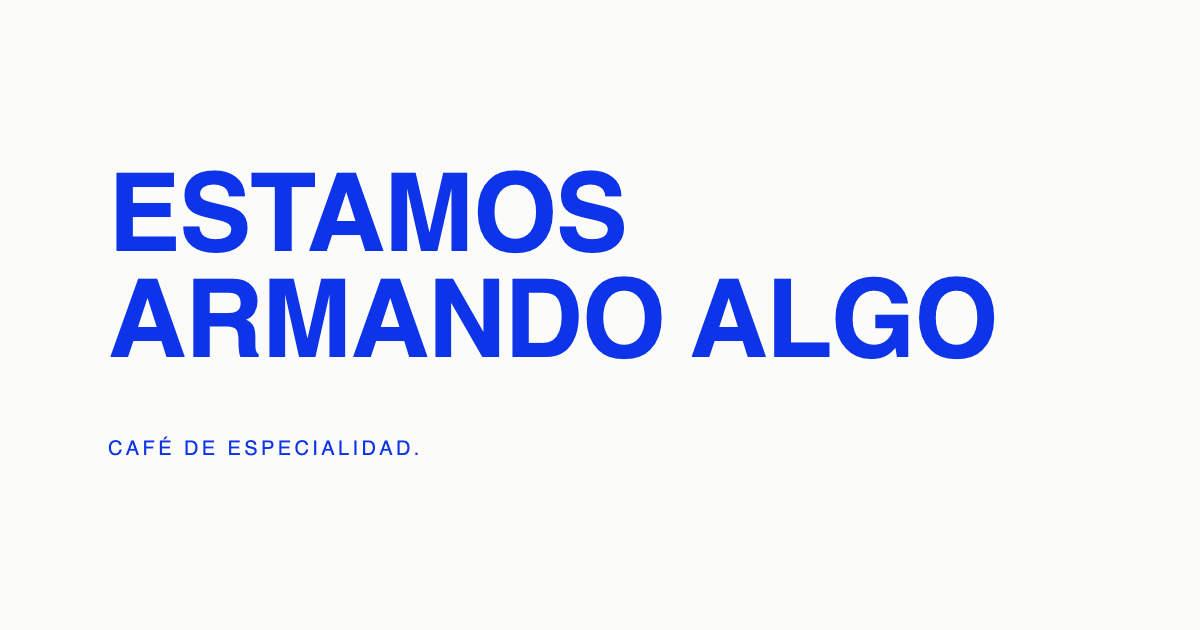
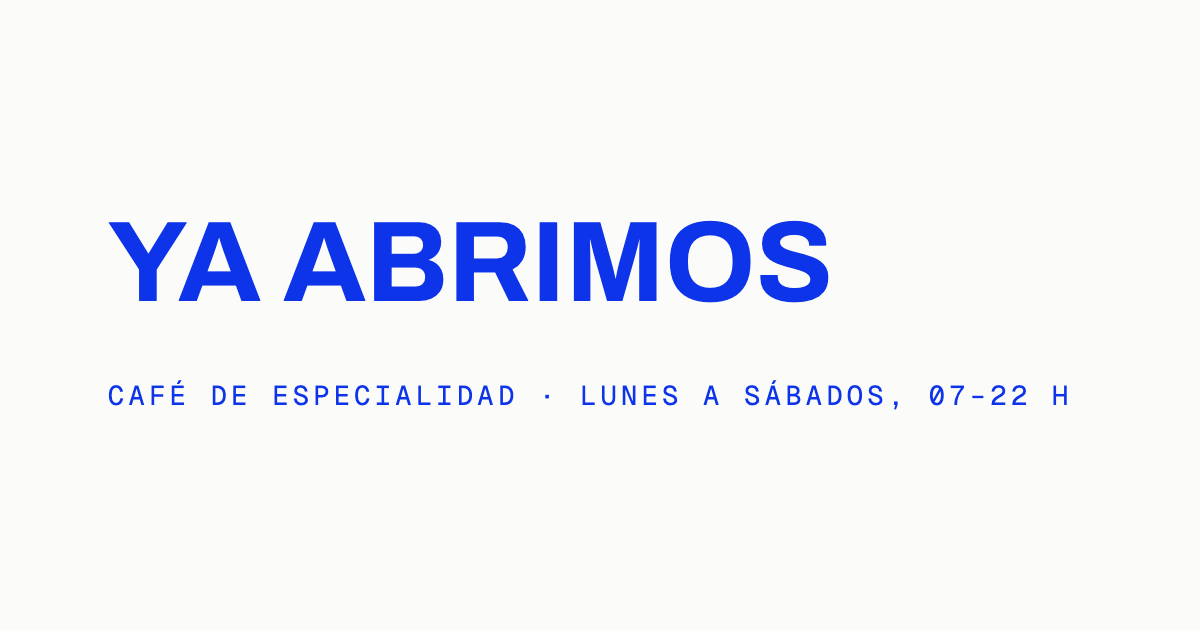
la landing dice que abrimos y la lista de espera se retira
El local de Salta abrió: titular "Ya abrimos", horario, "Cómo llegar" a
Google Maps y Jujuy como segunda acción. La lista de espera ya cumplió su
promesa: fuera el formulario, waitlist.join, la acción de Turnstile y su
tope. La tabla waitlist se conserva con sus emails. JSON-LD del local y
og.png nuevo. ADR-0010.

Generated with [Devin](https://devin.ai)

diff --git a/index.html b/index.html
@@ -6,7 +6,7 @@
     <title>Sorbo — Laboratorio de café</title>
     <meta
       name="description"
-      content="Estamos armando algo. Café de especialidad en Salta. Próximamente. Dean Funes 244."
+      content="Ya abrimos. Café de especialidad en Salta. Lunes a sábados, 07–22 h. Dean Funes 244."
     />
     <meta name="theme-color" content="#FBFBFA" />
     <link rel="icon" type="image/svg+xml" href="/favicon.svg" />
@@ -15,7 +15,7 @@
     <meta property="og:title" content="Sorbo — Laboratorio de café" />
     <meta
       property="og:description"
-      content="Estamos armando algo. Café de especialidad en Salta. Próximamente."
+      content="Ya abrimos. Café de especialidad en Salta. Lunes a sábados, 07–22 h."
     />
     <meta property="og:image" content="https://sorbolabs.com/og.png" />
     <meta property="og:image:width" content="1200" />
@@ -27,6 +27,41 @@
       href="https://fonts.googleapis.com/css2?family=Archivo:wght@400;500;600;700&family=Geist+Mono:wght@400;500&display=swap"
       rel="stylesheet"
     />
+    <script type="application/ld+json">
+      {
+        "@context": "https://schema.org",
+        "@type": "CafeOrCoffeeShop",
+        "name": "Sorbo",
+        "description": "Laboratorio de café de especialidad.",
+        "url": "https://sorbolabs.com/",
+        "image": "https://sorbolabs.com/og.png",
+        "telephone": "+5493875535225",
+        "address": {
+          "@type": "PostalAddress",
+          "streetAddress": "Dean Funes 244",
+          "addressLocality": "Salta",
+          "addressRegion": "Salta",
+          "addressCountry": "AR"
+        },
+        "hasMap": "https://maps.app.goo.gl/1G2C3LUB1BwF9pfP9",
+        "openingHoursSpecification": [
+          {
+            "@type": "OpeningHoursSpecification",
+            "dayOfWeek": [
+              "Monday",
+              "Tuesday",
+              "Wednesday",
+              "Thursday",
+              "Friday",
+              "Saturday"
+            ],
+            "opens": "07:00",
+            "closes": "22:00"
+          }
+        ],
+        "sameAs": ["https://instagram.com/sorbolabs"]
+      }
+    </script>
   </head>
   <body>
     <div id="root"></div>

diff --git a/convex/campaigns.test.ts b/convex/campaigns.test.ts
@@ -150,9 +150,13 @@ test("turnstile: sin token válido, de la acción correcta, no se crea nada", as
       "VERIFICACION_FALLIDA",
     );
   }
-  await expect(t.action(api.waitlist.join, { turnstile: "contribuir_mp", email: "a@x.com" })).rejects.toThrow(
-    "VERIFICACION_FALLIDA",
-  );
+  await expect(
+    t.action(api.contributions.contribuir, {
+      turnstile: "contribuir_mp",
+      slug: "jujuy",
+      via: { rail: "crypto", chainId: "base" },
+    }),
+  ).rejects.toThrow("VERIFICACION_FALLIDA");
   expect(mp.orders.size).toBe(0);
   const filas = await t.run((ctx) => ctx.db.query("contribuciones").collect());
   expect(filas).toHaveLength(0);
@@ -211,17 +215,6 @@ test("turnstile: sin hostnames configurados, falla cerrado", async () => {
   } finally {
     process.env.TURNSTILE_HOSTNAMES = antes;
   }
-});
-
-test("lista de espera: un email inválido no gasta cupo", async () => {
-  const t = nuevoTest();
-  setPortsForTesting(puertos(null));
-  for (let i = 0; i < 30; i++) {
-    await expect(t.action(api.waitlist.join, { turnstile: "lista_espera", email: "no-es-email" })).rejects.toThrow(
-      "EMAIL_INVALID",
-    );
-  }
-  await t.action(api.waitlist.join, { turnstile: "lista_espera", email: "ok@x.com" });
 });
 
 test("turnstile: sin configuración, falla cerrado", async () => {
@@ -1394,13 +1387,6 @@ test("recompensa: un aviso cripto posterior al pago no da cafés", async () => {
   // El aporte igual cuenta para la meta.
   const p = await t.query(api.campaigns.progreso, { slug: "jujuy" });
   expect(p!.recaudadoNetoCentavos).toBe(6_000_000);
-});
-
-test("límites: pasado el tope global, la lista de espera frena", async () => {
-  const t = nuevoTest();
-  setPortsForTesting(puertos(null));
-  for (let i = 0; i < 20; i++) await t.action(api.waitlist.join, { turnstile: "lista_espera", email: `w${i}@x.com` });
-  await expect(t.action(api.waitlist.join, { turnstile: "lista_espera", email: "w99@x.com" })).rejects.toThrow("DEMASIADO_TRAFICO");
 });
 
 test("staff: con PIN de 5, 5 fallidos en el día traban los ingresos nuevos hasta desbloquear", async () => {

diff --git a/src/components/landing.tsx b/src/components/landing.tsx
@@ -1,36 +1,43 @@
 import { Link } from "@tanstack/react-router";
-import { WaitlistForm } from "./waitlist-form";
-import { DataBlock } from "./data-block";
+import { DataBlock, MAPS_URL } from "./data-block";
 import { Pieza } from "./pieza";
 
 export function Landing() {
   return (
     <Pieza
-      lado={
-        <Link
-          to="/jujuy"
-          className="inline-block bg-azul px-7 py-3 text-xs font-semibold uppercase tracking-[0.17em] text-nieve hover:bg-noche"
-        >
-          Salta → Jujuy
-        </Link>
-      }
+      lado="Salta · AR"
       abajo={<DataBlock />}
       doe={false}
     >
       <section className="flex flex-1 flex-col justify-center py-8">
         <h1 className="text-[clamp(2rem,9.5vw,8rem)] font-bold uppercase leading-[0.98]">
-          Estamos
+          Ya
           <br />
-          armando&nbsp;algo
+          abrimos
         </h1>
         <p className="mt-8 text-xs uppercase leading-loose tracking-[0.17em] sm:text-base">
           Café de especialidad.
           <br />
-          Próximamente.
+          Lunes a sábados, 07–22 h.
         </p>
       </section>
 
-      <WaitlistForm />
+      <div className="flex flex-col items-start gap-5 sm:flex-row sm:items-center sm:gap-8">
+        <a
+          href={MAPS_URL}
+          target="_blank"
+          rel="noreferrer"
+          className="bg-azul px-7 py-3 text-xs font-semibold uppercase tracking-[0.17em] text-nieve hover:bg-noche"
+        >
+          Cómo llegar
+        </a>
+        <Link
+          to="/jujuy"
+          className="text-xs font-semibold uppercase tracking-[0.17em] text-azul underline-offset-4 hover:underline"
+        >
+          El próximo es Jujuy →
+        </Link>
+      </div>
     </Pieza>
   );
 }

diff --git a/src/components/data-block.tsx b/src/components/data-block.tsx
@@ -1,14 +1,10 @@
-import { Link } from "@tanstack/react-router";
+export const MAPS_URL = "https://maps.app.goo.gl/1G2C3LUB1BwF9pfP9";
 
 const rows = [
   {
-    value: "El próximo Sorbo",
-    href: "/jujuy",
-  },
-  {
     label: "Dirección",
     value: "Dean Funes 244, Salta",
-    href: "https://www.google.com/maps/search/?api=1&query=Dean+Funes+244+Salta",
+    href: MAPS_URL,
   },
   {
     label: "Instagram",
@@ -27,15 +23,11 @@ export function DataBlock() {
     <ul className="flex flex-wrap items-baseline justify-between gap-x-8 gap-y-3 font-mono text-[11px] uppercase tracking-[0.16em] text-azul/80 sm:text-xs">
       {rows.map((row) => (
         <li key={row.value} className="flex items-baseline gap-3">
-          {"label" in row && <span>{row.label}</span>}
+          <span>{row.label}</span>
           <span className="text-azul">
-            {row.href.startsWith("/") ? (
-              <Link to={row.href}>{row.value}</Link>
-            ) : (
-              <a href={row.href} target="_blank" rel="noreferrer">
-                {row.value}
-              </a>
-            )}
+            <a href={row.href} target="_blank" rel="noreferrer">
+              {row.value}
+            </a>
           </span>
         </li>
       ))}

diff --git a/convex/_lib/turnstile.test.ts b/convex/_lib/turnstile.test.ts
@@ -7,7 +7,7 @@ test("vale solo con éxito, la acción del formulario y un dominio nuestro", () 
   const ok = { success: true, action: "contribuir_mp", hostname: "sorbolabs.com" };
   expect(tokenValido(ok, "contribuir_mp", nuestros, false)).toBe(true);
   expect(tokenValido({ ...ok, success: false }, "contribuir_mp", nuestros, false)).toBe(false);
-  expect(tokenValido(ok, "lista_espera", nuestros, false)).toBe(false);
+  expect(tokenValido(ok, "aviso_cripto", nuestros, false)).toBe(false);
   expect(tokenValido({ ...ok, hostname: "otro.com" }, "contribuir_mp", nuestros, false)).toBe(false);
   expect(tokenValido({ success: true, action: "contribuir_mp" }, "contribuir_mp", nuestros, false)).toBe(false);
 });

diff --git a/convex/_lib/turnstile.ts b/convex/_lib/turnstile.ts
@@ -1,7 +1,7 @@
 import type { TurnstileResultado } from "./ports";
 
 // Acciones de Turnstile: una por formulario protegido, igual que en el front.
-export type AccionTurnstile = "contribuir_mp" | "aviso_cripto" | "lista_espera";
+export type AccionTurnstile = "contribuir_mp" | "aviso_cripto";
 
 // El token vale si Cloudflare dice que sí, para esta acción y desde un dominio
 // nuestro. Las claves de prueba de Cloudflare (sin acción, hostname

diff --git a/convex/limites.ts b/convex/limites.ts
@@ -14,7 +14,6 @@ const config = {
   verificarTx: { kind: "token bucket", rate: 20, period: MINUTE, capacity: 10 },
   // Vuelta de MP: un GET a MP por llamada.
   reconciliar: { kind: "token bucket", rate: 120, period: MINUTE, capacity: 60 },
-  listaDeEspera: { kind: "token bucket", rate: 30, period: MINUTE, capacity: 20 },
 } as const;
 
 const limites = new RateLimiter(components.rateLimiter, config);

diff --git a/GLOSSARY.md b/GLOSSARY.md
@@ -56,7 +56,7 @@ Lotes, pruebas, recetas y documentos internos. Con guion («LAB-001»). Sólo se
 ### Operación
 
 **Lista de espera**:
-El mecanismo de registro previo a la apertura del local. Quien se anota recibe aviso cuando Sorbo abre o cuando hay un SESSION. En la landing es el cierre de la pieza y la única acción del visitante.
+Retirada cuando abrió el local de Salta (ADR-0010). Fue el registro previo a la apertura del local; los emails quedan guardados en la tabla `waitlist`, sin formulario ni altas nuevas.
 
 **Campaña**:
 La recaudación abierta para financiar una sucursal nueva. La primera y única definida hoy es la de Jujuy; cada ciudad futura tendría su propia campaña y su propia pieza. No tiene fecha de cierre: queda abierta hasta llegar a la meta.
@@ -74,7 +74,7 @@ El objetivo bruto en pesos de la campaña, elegido ya descontando el costo del c
 El desglose público de la meta por rubro (local, obra, salón, equipamiento, habilitaciones, apertura, tres meses de operación, imprevistos y costo del cobro). Vive en su propia pieza, `/jujuy/numeros`, y suma exactamente la meta.
 
 **Contribuyente**:
-Quien hace una contribución. Anónimo por defecto; si deja su email recibe novedades de la campaña — acreditación, devolución, meta cumplida, apertura — y su recompensa. Distinto de la lista de espera: son intenciones distintas y no se mezclan.
+Quien hace una contribución. Anónimo por defecto; si deja su email recibe novedades de la campaña — acreditación, devolución, meta cumplida, apertura — y su recompensa. Distinto de la lista de espera (retirada): son intenciones distintas y no se mezclan.
 
 **Recompensa**:
 Los cafés que devuelve un aporte con email (ADR-0008): $5.000 da 1 café y cada $10.000 más suma 1, con tope de 10 por persona. Se calcula por email sobre la suma de sus aportes aprobados, así que una devolución la baja sola. Un aporte cripto cuenta solo si antes de pagar se avisó con email y la wallet de origen, y la transfer sale de esa wallet dentro de las 48 horas: el hash es público y cualquiera podría reclamar una transfer ajena. Todos los cafés de la carta, durante los 6 meses siguientes a la **Apertura**. Nada más: sin eventos ni nombres en la pared.

diff --git a/docs/adr/0010-landing-tras-la-apertura.md b/docs/adr/0010-landing-tras-la-apertura.md
@@ -1,0 +1,37 @@
+# 0010 · La landing tras la apertura
+
+**Estado:** aceptada, 2026-11-23
+
+## Contexto
+
+Abrió el local de Salta. La landing seguía diciendo «estamos armando algo» y
+su única acción era anotarse en una lista de espera que ya no tiene sentido:
+la promesa (avisar cuando abra) se cumplió. ADR-0001 sigue vigente — la pieza
+es una — pero la idea y la acción quedaron viejas.
+
+## Decisión
+
+**La pieza pasa a «ya abrimos» y la acción a «cómo llegar».** El titular dice
+*Ya abrimos*, la bajada publica el horario (lunes a sábados, 07–22 h) y el
+botón lleva a Google Maps. La campaña de Jujuy queda como segunda acción, con
+un link de menor jerarquía a `/jujuy`.
+
+La lista de espera se retira de punta a punta: formulario del front, acción
+pública `waitlist.join` (y su mutación interna), acción de Turnstile
+`lista_espera` y su tope de tráfico — actualiza la decisión de ADR-0009, que
+la nombraba entre los formularios protegidos. La tabla `waitlist` se conserva
+con los emails que ya se anotaron; no hay formulario ni altas nuevas.
+
+El horario y la dirección se publican también como datos estructurados
+(JSON-LD `CafeOrCoffeeShop`) para buscadores.
+
+## Consecuencias
+
+- La acción principal sale de la pieza (Google Maps): es lo correcto cuando
+  el objetivo es que vengan al local.
+- Los emails de la lista quedan guardados en la tabla `waitlist`; si se
+  quieren usar hay que escribir la función que los lea — hoy no existe.
+- `react-hook-form` y `@hookform/resolvers` se fueron con el formulario; el
+  único formulario que queda es el de la campaña, en `/jujuy`.
+- El JSON-LD replica a mano lo que dice la pieza: si cambia el horario o la
+  dirección, hay que tocar los dos lados.

diff --git a/docs/adr/0001-la-web-es-una-pieza.md b/docs/adr/0001-la-web-es-una-pieza.md
@@ -3,3 +3,5 @@
 El Manual de Marca v2.1 define plantillas para story, feed, carrusel, ficha, menú, packaging y WhatsApp — pero no define la web. Se decidió que la landing de sorbolabs.com se comporta como **una sola pieza**: un viewport, orden vertical fijo (header → titular → bajada → acción → bloque de datos → Doe), una sola idea (estamos armando algo) y una sola acción (anotarse en la lista de espera). No hay navegación, ni scroll de secciones, ni footer tradicional.
 
 La alternativa era un sitio multi-sección (historia, menú, contacto). Se rechazó porque el local está por abrir sin fecha, no hay menú ni horarios que publicar, y el sistema premia el aire: una página larga habría sido relleno. Cuando exista contenido real para más superficies, cada una será su propia pieza o se definirá el formato web en el manual.
+
+Actualizada por 0010: con el local de Salta abierto, la idea es «ya abrimos» y la acción, cómo llegar.

diff --git a/AGENTS.md b/AGENTS.md
@@ -1,7 +1,7 @@
 # AGENTS.md
 
 Landing de Sorbo Labs (`sorbolabs.com`): una sola pieza de marca — un viewport,
-un titular, un form de lista de espera, un bloque de datos. No es un sitio de
+un titular, la acción (cómo llegar), un bloque de datos. No es un sitio de
 marketing; las decisiones de composición viven en `docs/adr/` y el glosario en
 `GLOSSARY.md`.
 

diff --git a/docs/adr/0009-turnstile-en-formularios.md b/docs/adr/0009-turnstile-en-formularios.md
@@ -39,3 +39,6 @@ nunca en producción.
   persona": el error es nuestro, no suyo.
 - El widget del dashboard de Cloudflare autoriza solo `sorbolabs.com`. En
   local, el front usa la sitekey de prueba.
+
+Actualizada por 0010: la lista de espera se retiró cuando abrió el local de
+Salta; las acciones vigentes son `contribuir_mp` y `aviso_cripto`.
